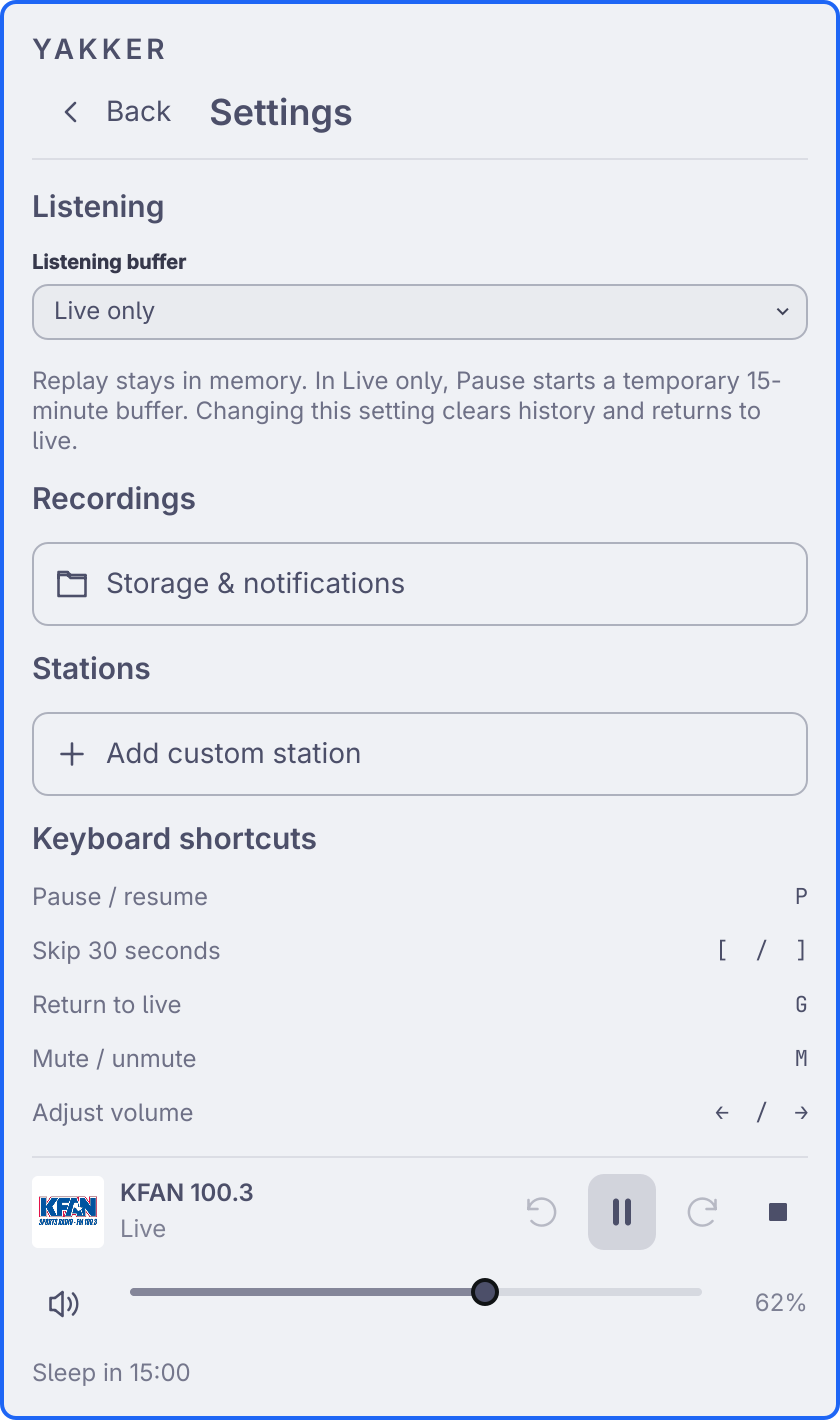
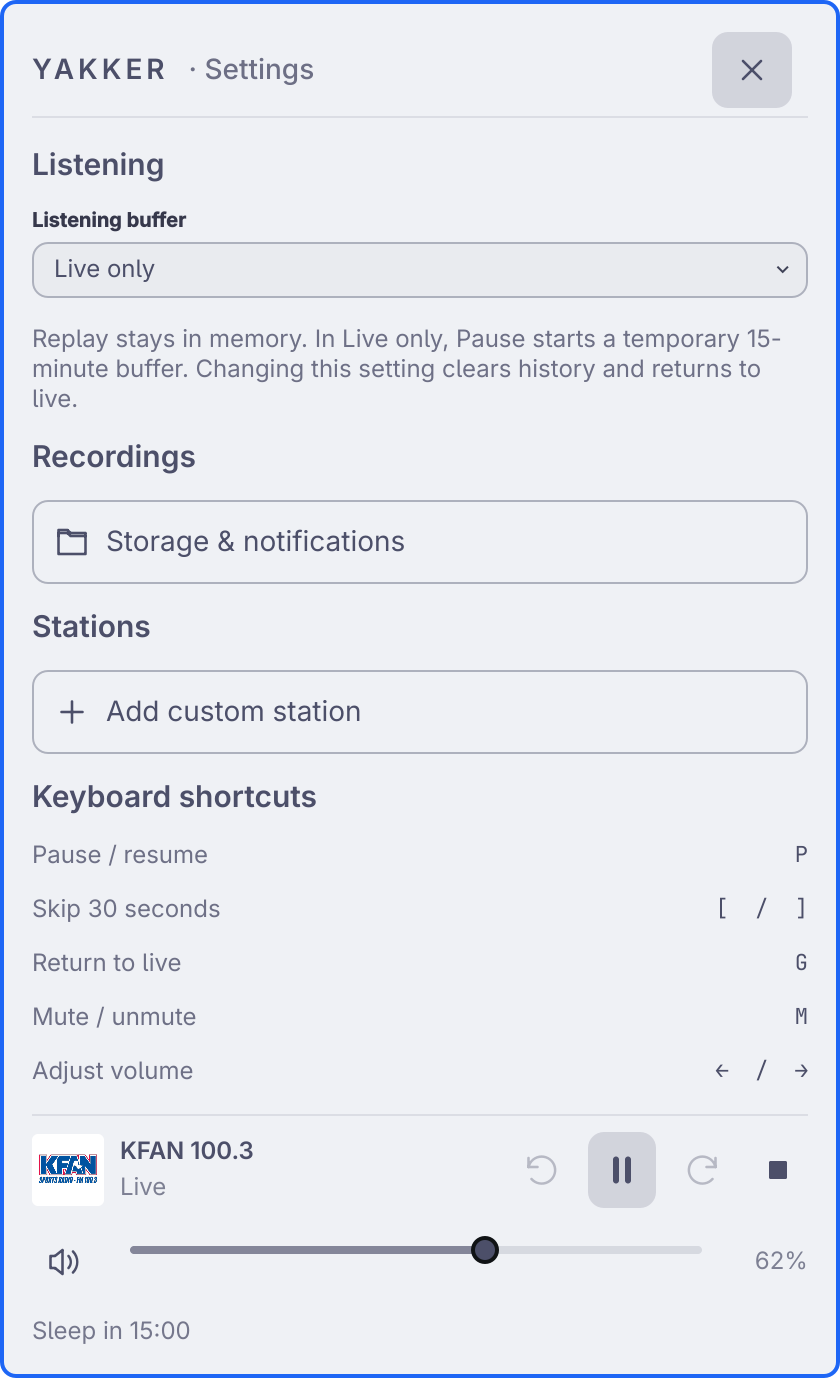
Place Settings title beside app name with a single close action

diff --git a/Panel.qml b/Panel.qml
@@ -61,7 +61,7 @@ Ui.Panel {
     settingsOpen = true
     stationPicker.close(); speedPicker.close(); sleepPopup.close()
     scroller.contentY = 0
-    cursor = 24
+    cursor = 4
     keyCatcher.forceActiveFocus()
   }
   function closeSettings() {
@@ -143,7 +143,9 @@ Ui.Panel {
   function advanceCursor(direction) {
     let order = [4,20,14,21]
     if (settingsOpen) {
-      order = [24,5,17,10]
+      order = [4]
+      if (settingsStorage || stationEditorOpen) order.push(24)
+      order = order.concat([5,17,10])
       if (radio.station.custom) order = order.concat([11,12])
       order = order.concat([2,3])
       const index = Math.max(0, order.indexOf(cursor))
@@ -332,16 +334,32 @@ Ui.Panel {
           Row {
             width: parent.width
             spacing: Style.space(8)
-            Text {
+            Row {
               width: parent.width - captureIndicator.width - settingsButton.width - parent.spacing * 2
               anchors.verticalCenter: parent.verticalCenter
-              text: "YAKKER"
-              font.letterSpacing: Style.space(2)
-              textFormat: Text.PlainText
-              color: root.barForeground
-              font.family: root.uiFontFamily
-              font.pixelSize: Style.fontPx(1.167)
-              font.weight: Font.DemiBold
+              spacing: Style.space(10)
+              Text {
+                id: appTitle
+                text: "YAKKER"
+                font.letterSpacing: Style.space(2)
+                textFormat: Text.PlainText
+                color: root.barForeground
+                font.family: root.uiFontFamily
+                font.pixelSize: Style.fontPx(1.167)
+                font.weight: Font.DemiBold
+              }
+              Text {
+                id: settingsSectionTitle
+                visible: root.settingsOpen
+                width: Math.max(0, parent.width - appTitle.width - parent.spacing)
+                text: "· " + (root.stationEditorOpen ? (root.editingStationId ? "Edit station" : "Add station") : root.settingsStorage ? "Recording storage" : "Settings")
+                textFormat: Text.PlainText
+                color: Qt.alpha(root.barForeground, 0.8)
+                font.family: root.uiFontFamily
+                font.pixelSize: Style.fontPx(1.167)
+                font.weight: Font.Medium
+                elide: Text.ElideRight
+              }
             }
             Radio.FocusButton {
               id: captureIndicator
@@ -356,10 +374,8 @@ Ui.Panel {
             }
             Radio.FocusButton {
               id: settingsButton
-              visible: !root.settingsOpen
-              width: visible ? implicitWidth : 0
-              iconName: "settings"
-              tooltipText: "Open settings"
+              iconName: root.settingsOpen ? "close" : "settings"
+              tooltipText: root.settingsOpen ? "Close settings" : "Open settings"
               Accessible.role: Accessible.Button
               Accessible.name: tooltipText
               foreground: root.barForeground
@@ -367,7 +383,7 @@ Ui.Panel {
               focusable: root.auxiliaryView
               hasCursor: root.cursor === 4
               onHovered: hovered => { if (hovered) root.cursor = 4 }
-              onClicked: root.openSettings()
+              onClicked: root.settingsOpen ? root.closeSettings() : root.openSettings()
             }
           }
           Row {
@@ -434,19 +450,20 @@ Ui.Panel {
           }
           Row {
             width: parent.width
-            visible: root.settingsOpen
+            visible: root.settingsOpen && (root.settingsStorage || root.stationEditorOpen)
             spacing: Style.space(8)
             Radio.FocusButton {
               id: settingsBackButton
               iconName: "left"
-              text: "Back"
+              text: "Settings"
+              fontSize: Style.fontPx(1)
+              horizontalPadding: 0
               foreground: root.barForeground
               hasCursor: root.cursor === 24
               focusable: root.auxiliaryView
               onHovered: hovered => { if (hovered) root.cursor = 24 }
               onClicked: root.backFromSettings()
             }
-            Text { anchors.verticalCenter: parent.verticalCenter; text: root.stationEditorOpen ? (root.editingStationId ? "Edit station" : "Add station") : root.settingsStorage ? "Recording storage" : "Settings"; textFormat: Text.PlainText; color: root.barForeground; font.family: root.uiFontFamily; font.pixelSize: Style.fontPx(1.5); font.weight: Font.DemiBold }
           }
           Ui.PanelSeparator { width: parent.width }
         }

diff --git a/tools/qml-smoke/recordings.qml b/tools/qml-smoke/recordings.qml
@@ -417,9 +417,10 @@ ShellRoot {
           wait(100); keyClick(Qt.Key_Escape); verify(!panel.recordingsOpen, "Second Escape did not return to player")
           panel.testSettingsButton.clicked()
           verify(panel.settingsOpen && panel.testSettings.visible && !panel.testPlayerView.visible, "Settings expanded into the player instead of replacing it")
-          verify(!panel.testSettingsButton.visible && panel.testSettingsBack.visible, "Settings should have a single Back control")
+          verify(panel.testSettingsButton.visible && panel.testSettingsButton.iconName === "close" && !panel.testSettingsBack.visible, "Settings should have one close control in the title row")
+          compare(panel.testSectionTitle.text, "· Settings")
           verify(panel.testDock.visible && panel.testStorageButton.visible, "Settings lost persistent playback controls")
-          panel.cursor = 24; panel.advanceCursor(1); compare(panel.cursor, 5)
+          panel.cursor = 4; panel.advanceCursor(1); compare(panel.cursor, 5)
           panel.cursor = 17; panel.activate(); verify(panel.recordingsOpen); verify(panel.testView.storageEditing); compare(panel.testView.tab, "library")
           tryVerify(function() { return panel.testView.testFolder.activeFocus }, 2000)
           tryVerify(function() { var y = panel.testView.testFolder.mapToItem(panel, 0, 0).y; return y >= 0 && y + panel.testView.testFolder.height <= window.height }, 2000)
@@ -430,11 +431,16 @@ ShellRoot {
           panel.testSettingsBack.clicked()
           tryVerify(function() { return panel.settingsOpen && !panel.recordingsOpen && panel.testSettings.visible }, 2000)
           verify(!panel.testView.storageEditing, "Storage did not return to Settings")
-          wait(100); panel.testSettingsBack.clicked(); verify(!panel.recordingsOpen && !panel.settingsOpen)
+          wait(100); panel.testSettingsButton.clicked(); verify(!panel.recordingsOpen && !panel.settingsOpen)
           panel.openSchedules(); panel.openSettings()
           verify(panel.settingsOpen && !panel.testPlayerView.visible)
           panel.closeSettings()
           verify(panel.recordingsOpen && panel.testView.tab === "schedules", "Settings did not return to the previous section")
+          panel.openSettings(); panel.openSettingsStorage()
+          verify(panel.testSettingsBack.visible)
+          compare(panel.testSectionTitle.text, "· Recording storage")
+          panel.testSettingsButton.clicked()
+          verify(!panel.settingsOpen && panel.recordingsOpen && panel.testView.tab === "schedules", "X did not return from nested settings to the previous section")
           panel.openSettings(); panel.openSettingsStorage()
           panel.testView.saveStorage()
           tryVerify(function() { return !panel.testView.pending && panel.settingsOpen && !panel.recordingsOpen }, 5000)

diff --git a/tools/test-recordings-ui.py b/tools/test-recordings-ui.py
@@ -53,6 +53,7 @@ def main():
   property alias testStorageButton: storageButton
   property alias testSettings: settingsView
   property alias testPlayerView: playerView
+  property alias testSectionTitle: settingsSectionTitle
   property alias testSettingsButton: settingsButton
   property alias testSettingsBack: settingsBackButton
   property alias testDock: playbackDock

diff --git a/README.md b/README.md
@@ -429,10 +429,11 @@ This is a plain line-oriented CLI; each command requires Enter.
 ## Settings and stations
 
 The gear opens a dedicated Settings page, replacing the main player while keeping
-a compact playback dock available. The single **Back** control or Escape returns to the section you
-came from. Settings groups listening preferences, recording storage and alerts,
+a compact playback dock available. The title row reads **YAKKER · Settings**, with an **X** on the right to return
+to the section you came from. Settings groups listening preferences, recording storage and alerts,
 custom stations, and keyboard shortcuts. Storage and the station editor open
-as separate pages; saving or cancelling storage returns to Settings.
+as separate pages with a back link to Settings; saving or cancelling storage
+returns there too. Escape goes back one level, while X closes settings.
 
 In Settings, use **Add custom station** to save a name and HTTP(S) audio stream URL; city, country, and website are optional. Select a saved custom station in the station picker to edit or delete it. Deleting the selected station stops playback and clears the selection so you can choose another. Editing its stream URL reconnects if it was playing. Yakker does not fetch or test a URL until you play it.
 
